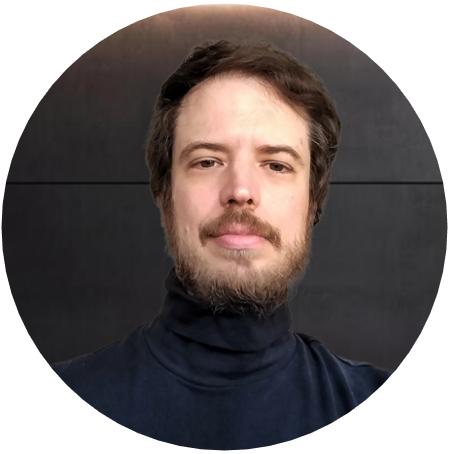
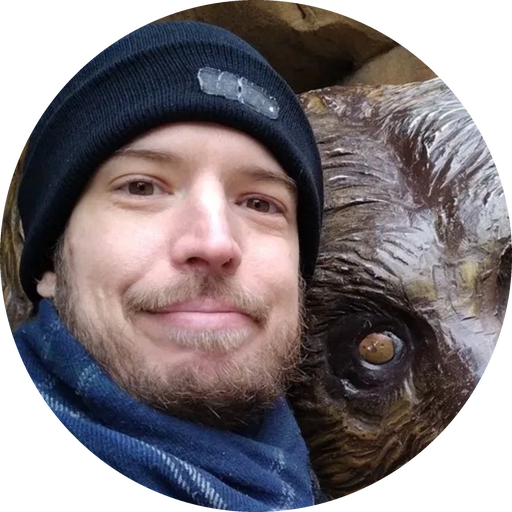
Use bear photo as profile picture, placed left of the header text.
Claude-Session: https://claude.ai/code/session_01PXHjC9Z6UhkWugdomdEwc3

diff --git a/assets/css/custom.css b/assets/css/custom.css
@@ -184,6 +184,27 @@ article.text-center > section.prose { text-align: left; }
 article.text-center > section.prose h2 { margin-top: 2.5rem; }
 article.text-center > header { margin-bottom: 2rem; }
 
+/* Home header: photo on the left, name/headline/links beside it. */
+@media (min-width: 40rem) {
+  article.text-center > header {
+    display: grid;
+    grid-template-columns: auto 1fr;
+    grid-template-rows: auto auto auto;
+    column-gap: 2rem;
+    align-content: center;
+    width: 100%;
+    max-width: 56rem;
+    text-align: left;
+  }
+  article.text-center > header > img {
+    grid-row: 1 / span 3;
+    align-self: center;
+    margin-bottom: 0;
+  }
+  article.text-center > header > h1 { align-self: end; }
+  article.text-center > header > div { align-self: start; margin-top: 0.5rem; }
+}
+
 /* ---- Series landing pages ------------------------------------------- */
 
 .series-arc-title { margin: 3rem 0 0.25rem; font-size: 1.5rem; font-weight: 700; }
